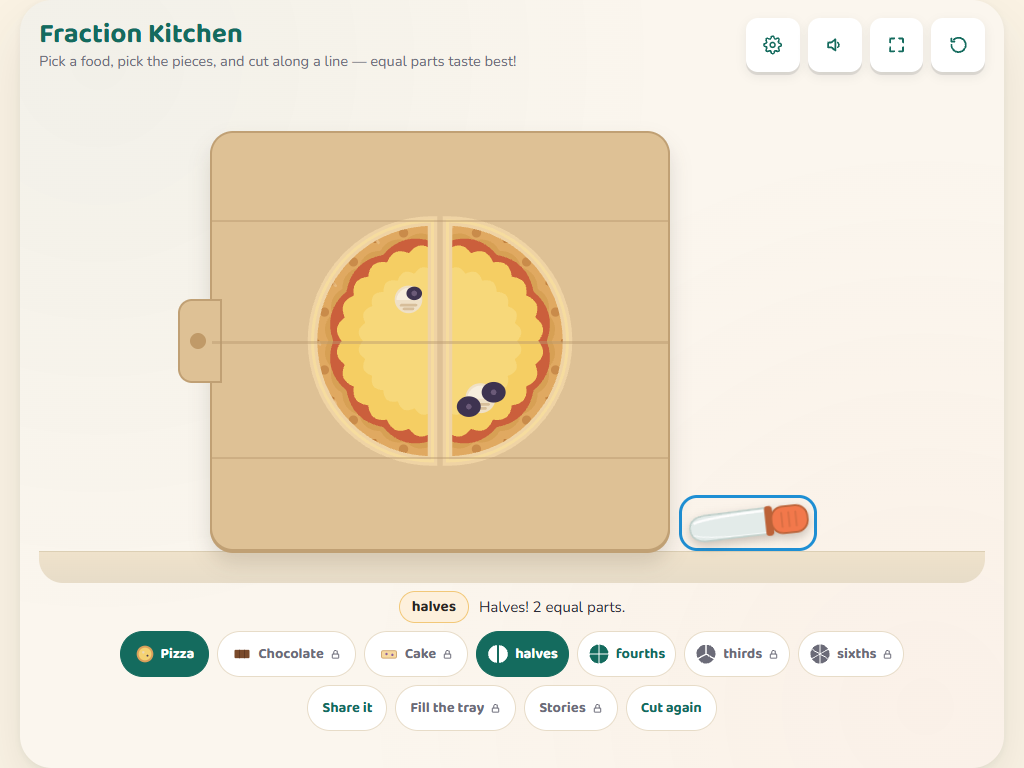
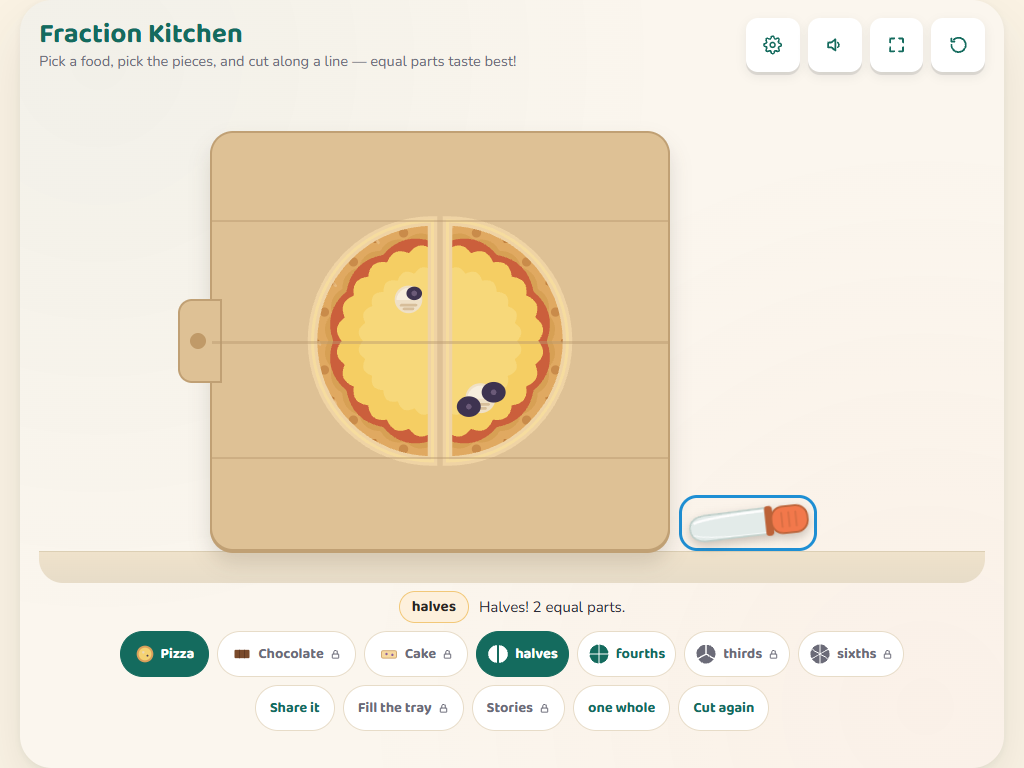
[FEAT][TOOLS] fraction-kitchen: three fourths is now sayable — the one line that capped the whole tool at unit fractions
Wave 6. Two curriculum clauses that were required verbatim and absent,
both delivered with ZERO new strings in any of the eleven locales.

⭐ THE FAIR SHARE, NOT ONE SLICE. `if (plate.querySelector('svg')) return;`
capped this tool at UNIT fractions. No child could ever be given THREE
FOURTHS — 3.NF.A.1's second clause, "a/b as a parts of size 1/b", which
is the pivot idea of grade 3. It also made every leftover unresolvable:
six pieces among three friends HAD to leave three over, when the
mathematically correct answer is two sixths each. A plate now takes
floor(pieces/friends), slices shrink as the share grows so four still
read as four, and _checkShare waits for everyone's SHARE rather than
everyone's piece.

⭐ AND IT NEEDS NO NEW COPY, because FRAC already had the right form.
`c` is defined as the form that FOLLOWS A NUMERAL — that is what it was
authored for — so "2 " + frac(n,'c') is correct by construction in all
eleven languages: "2 sixths", "2 Sechstel", "2 kuudesosaa". The share is
now named aloud and in the ribbon as it is served.

⭐ RE-FORMING THE WHOLE, required verbatim by both 1.G.A.3 and 2.G.A.3
("describe the whole as two of, or four of, the shares") and absent
except through one premium tray task. A chip labelled `fracWhole` pulls
the pieces back together and says it: `equivDone` composed with
`fracWhole` renders "4 fourths fill it exactly. 4 fourths make one
whole." — and its German and Finnish are just as good, because both
[…]

Changed region(s): [[0.25, 0.9062, 0.75, 0.9375]]

diff --git a/mini tools/fraction-kitchen.js b/mini tools/fraction-kitchen.js
@@ -292,7 +292,9 @@ var FractionKitchen = {
     this.friends = 2;
     this.committed = [];         /* committed correct-line indices */
     this.sliced = false;
-    this.placed = [];            /* plate idx -> piece idx */
+    this.placed = [];            /* piece indices already served */
+    this.plateOf = [];           /* piece idx -> plate idx */
+    this.whole = false;          /* the pieces pulled back into one */
     this._sel = null;            /* tap-to-select: the piece awaiting a plate */
     this.wobbleSpoken = {};      /* food -> true (≤1 kind line per food) */
     this.equivTask = null;
@@ -1323,6 +1325,7 @@ var FractionKitchen = {
      piece, without one it takes the first piece still on the board */
   _tapPlate: function (plateEl) {
     if (this.mode !== 'share') return;
+    if (this._plateCount(Number(plateEl.dataset.plate)) >= this._share()) return;
     var idx = this._sel;
     if (idx == null) {
       var ps = this.pieces(this.food, this.n);
@@ -1446,18 +1449,47 @@ var FractionKitchen = {
     this._platesEl = row;
     return row;
   },
+  /* ⭐ THE FAIR SHARE, not one slice. A single line — `if
+     (plate.querySelector('svg')) return;` — capped this whole tool at
+     UNIT fractions: no child could ever be given THREE FOURTHS, which is
+     the pivot idea of grade 3 (3.NF.A.1's second clause, "a/b as a parts
+     of size 1/b"). It also made every leftover unresolvable: six pieces
+     among three friends had to leave three over instead of giving each
+     of them two sixths. */
+  _share: function () {
+    var total = this.pieces(this.food, this.n).length;
+    return Math.max(1, Math.floor(total / this.friends));
+  },
+  _plateCount: function (i) {
+    return (this.plateOf || []).filter(function (v) { return v === i; }).length;
+  },
   _dropOnPlate: function (pieceIdx, x, y, targets) {
     var self = this;
     targets = targets || this._targets();
+    this.plateOf = this.plateOf || [];
     for (var k = 0; k < targets.length; k++) {
       if (this._inTarget(targets[k], x, y)) {
         var plate = targets[k].el, i = Number(plate.dataset.plate);
-        if (plate.querySelector('svg')) return;   /* one slice per plate — extra slides back (render no-op) */
+        if (this._plateCount(i) >= this._share()) return;   /* this plate has its share */
         var p = this.pieces(this.food, this.n)[pieceIdx];
-        plate.innerHTML = '<svg viewBox="' + this._bboxAttr(this.food, this.n, pieceIdx) + '" class="frk-plateslice">' +
-          '<clipPath id="frkpl' + i + '"><path d="' + p.d + '"/></clipPath>' +
-          '<g clip-path="url(#frkpl' + i + ')">' + this._body(this.food) + '</g></svg>';
+        var kOn = this._plateCount(i) + 1;
+        /* slices shrink as the share grows, so four still read as four */
+        var sz = Math.max(30, Math.min(68, 68 / Math.sqrt(kOn))).toFixed(0);
+        plate.insertAdjacentHTML('beforeend',
+          '<svg viewBox="' + this._bboxAttr(this.food, this.n, pieceIdx) + '" class="frk-plateslice">' +
+          '<clipPath id="frkpl' + i + '_' + pieceIdx + '"><path d="' + p.d + '"/></clipPath>' +
+          '<g clip-path="url(#frkpl' + i + '_' + pieceIdx + ')">' + this._body(this.food) + '</g></svg>');
+        [].forEach.call(plate.querySelectorAll('.frk-plateslice'), function (s) {
+          s.style.width = sz + '%'; s.style.height = sz + '%';
+        });
         this.placed.push(pieceIdx);
+        this.plateOf[pieceIdx] = i;
+        /* ⭐ NAME THE SHARE. FRAC's `c` form is defined as the form that
+           follows a numeral, in every locale — so "2 " + c is correct
+           by construction and needs no new string in any language. */
+        this._speak(kOn > 1
+          ? kOn + ' ' + this.frac(this.n, 'c')
+          : this.fmt('pieceName', { fs: this.frac(this.n, 's') }));
         if (this._sel === pieceIdx) { this._sel = null; this._paintSel(); }
         var pieceEl = this._hitsEl.querySelector('.frk-piecebtn[data-piece="' + pieceIdx + '"]');
         if (pieceEl) pieceEl.classList.add('onplate');
@@ -1475,8 +1507,10 @@ var FractionKitchen = {
     var total = this.pieces(this.food, this.n).length;
     var filled = this.placed.length;
     var self = this;
-    if (filled === Math.min(this.friends, total)) {
-      var leftover = total - this.friends;
+    /* everyone has their SHARE, not merely one piece each */
+    var served = Math.min(this.friends * this._share(), total);
+    if (filled === served) {
+      var leftover = total - served;
       setTimeout(function () {
         if (leftover > 0) {
           /* ⚠ shareLeftover is the ONE share string with no placeholders:
@@ -1489,7 +1523,7 @@ var FractionKitchen = {
              observes-then-waits. Parameterising it properly needs counted
              forms in eleven languages — a locale pass, not a code fix. */
           if (leftover === 1) self._speak(self.api.t('shareLeftover'));
-        } else if (leftover < 0) {
+        } else if (self.friends > total) {
           self._speak(self.fmt('shareEmpty', { p: total, f: self.friends }));
         } else {
           (self._platesEl.querySelectorAll('.frk-face') || []).forEach(function (f) { f.classList.add('blink'); });
@@ -1725,7 +1759,7 @@ var FractionKitchen = {
         chip.addEventListener('click', function () {
           if (locked) { self._gateInline(dock, 'gateMenu'); return; }
           self.friends = f;
-          self.placed = [];
+          self.placed = []; self.plateOf = [];
           self.render();
         });
         r2.appendChild(chip);
@@ -1759,6 +1793,23 @@ var FractionKitchen = {
       self._speak(self._loc(story.story));
     });
     r2.appendChild(st);
+    if (this.sliced && this.mode !== 'equiv') {
+      var whole = api.el('button', 'frk-chip' + (this.whole ? ' active' : ''));
+      whole.type = 'button';
+      whole.textContent = api.t('fracWhole');
+      whole.addEventListener('click', function () {
+        self.whole = !self.whole;
+        self._foodBoxEl.classList.toggle('exploded', !self.whole);
+        whole.classList.toggle('active', self.whole);
+        if (self.whole) {
+          self._sfxFit();
+          self._speak(self.fmt('equivDone', {
+            a: self.n, small: self.frac(self.n, 'c'), big: api.t('fracWhole')
+          }));
+        }
+      });
+      r2.appendChild(whole);
+    }
     var again = api.el('button', 'frk-chip');
     again.type = 'button';
     again.textContent = api.t(this.sliced ? 'cutAgain' : 'startAgain');
@@ -1778,6 +1829,8 @@ var FractionKitchen = {
     this.committed = [];
     this.sliced = false;
     this.placed = [];
+    this.plateOf = [];
+    this.whole = false;
     this._sel = null;
     if (!keepMode && this.mode === 'equiv') this.mode = 'cut';
     this.render();
@@ -1991,10 +2044,12 @@ var FractionKitchen = {
   + '.frk-plate:focus-visible,.frk-supplypiece:focus-visible,.frk-tray.fill:focus-visible{'
   +   'outline:3px solid var(--lcs-focus,#146B5E);outline-offset:3px;}'
   + '.frk-plate{width:108px;height:108px;border-radius:50%;background:#FFFFFF;'
-  +   'border:1.5px solid #C9D8D3;box-shadow:var(--lcs-shadow-sm);display:grid;place-items:center;position:relative;}'
+  +   'border:1.5px solid #C9D8D3;box-shadow:var(--lcs-shadow-sm);position:relative;'
+  +   'display:flex;flex-wrap:wrap;align-items:center;justify-content:center;gap:1px;padding:9%;}'
   + '.frk-plate::before{content:"";position:absolute;inset:12%;border-radius:50%;border:2px solid #E2F0EC;}'
   + '.frk-plate.hot{border-color:#F2784B;transform:scale(1.03);transition:all .14s var(--lcs-ease);}'
-  + '.frk-plateslice{width:64%;height:64%;}'
+  + '.frk-plateslice{width:64%;height:64%;flex:0 0 auto;'
+  +   'filter:drop-shadow(0 2px 2px rgba(58,46,34,.20));}'
 
   /* equivalence trays */
   + '.frk-trays{flex-shrink:0;display:flex;justify-content:center;align-items:center;gap:24px;'

diff --git a/scripts/local-test-fraction-kitchen.js b/scripts/local-test-fraction-kitchen.js
@@ -461,6 +461,75 @@ function serve() {
     await page.close(); await p2.close();
   }
 
+  /* ================= C2: the FAIR SHARE, not one slice ==================
+     One line used to cap this tool at unit fractions — a plate could hold
+     exactly one piece, so no child could ever be given three fourths, and
+     six pieces among three friends had to leave three over instead of
+     giving each of them two sixths. */
+  console.log('C2. non-unit shares');
+  {
+    const page = await newPage({ premium: true });
+    await page.goto(BASE);
+    await ready(page);
+    await spy(page);
+    await page.evaluate(() => {
+      const T = FractionKitchen;
+      T.food = 'pizza'; T.n = 6; T.committed = [0, 1, 2]; T.sliced = true;
+      T.mode = 'share'; T.friends = 3; T.placed = []; T.plateOf = [];
+      T.render();
+    });
+    await sleep(300);
+    const share = await page.evaluate(() => FractionKitchen._share());
+    ok('C2 six pieces among three friends is a share of TWO', share === 2, `share=${share}`);
+    await page.evaluate(() => { window.__spoken = []; });
+    for (const i of [0, 1]) await dragCenter(page, `.frk-piecebtn[data-piece="${i}"]`, '.frk-plate[data-plate="0"]');
+    const st = await page.evaluate(() => ({
+      onPlate0: document.querySelectorAll('.frk-plate[data-plate="0"] .frk-plateslice').length,
+      placed: FractionKitchen.placed.length,
+      spoken: window.__spoken.join(' | ')
+    }));
+    ok('C2 one plate holds TWO slices', st.onPlate0 === 2 && st.placed === 2, `slices=${st.onPlate0} placed=${st.placed}`);
+    /* the counted form is what follows a numeral in every locale, so this
+       needs no new string in any language */
+    ok('C2 the share is NAMED as a non-unit fraction', /2\s+sixths/i.test(st.spoken), st.spoken);
+    /* and a third slice on that plate is refused — the share is the share */
+    await dragCenter(page, '.frk-piecebtn[data-piece="2"]', '.frk-plate[data-plate="0"]');
+    const after = await page.evaluate(() => document.querySelectorAll('.frk-plate[data-plate="0"] .frk-plateslice').length);
+    ok('C2 a plate never takes more than its share', after === 2, `slices=${after}`);
+    ok('C2 no js errors', page._errs.length === 0, page._errs[0]);
+    await page.close();
+  }
+  /* ============ C3: re-forming the whole (1.G.A.3 / 2.G.A.3) =========== */
+  console.log('C3. put it back together');
+  {
+    const page = await newPage({});
+    await page.goto(BASE);
+    await ready(page);
+    await spy(page);
+    await page.evaluate(() => {
+      const T = FractionKitchen;
+      T.food = 'pizza'; T.n = 4; T.committed = [0, 1]; T.sliced = true; T.render();
+      T._foodBoxEl.classList.add('exploded');
+    });
+    await sleep(250);
+    const chip = await page.evaluate(() => {
+      const c = [...document.querySelectorAll('.frk-chip')].filter((b) => /whole/i.test(b.textContent));
+      if (!c.length) return null;
+      c[0].click();
+      return true;
+    });
+    ok('C3 non-vacuity: a "one whole" chip exists once the food is cut', chip === true);
+    await sleep(300);
+    const st = await page.evaluate(() => ({
+      exploded: document.querySelector('.frk-foodbox').classList.contains('exploded'),
+      spoken: window.__spoken.join(' | ')
+    }));
+    ok('C3 the pieces come back together', !st.exploded);
+    ok('C3 it says four fourths make one whole', /fourths.*one whole/i.test(st.spoken), st.spoken);
+    ok('C3 no js errors', page._errs.length === 0, page._errs[0]);
+    await page.close();
+  }
+
   /* ============================ D: equivalence tray ===================== */
   console.log('D. equivalence tray (premium)');
   {

diff --git a/mini tools/fraction-kitchen.html b/mini tools/fraction-kitchen.html
@@ -12,7 +12,7 @@
 
   <!-- Shell first, then this tool. -->
   <script src="/mini-tools/lcs-shell.js?v=5"></script>
-  <script src="/mini-tools/fraction-kitchen.js?v=4"></script>
+  <script src="/mini-tools/fraction-kitchen.js?v=5"></script>
   <script>
     // URL params the shell understands:
     //   ?lang=sv  ?lang=fi  (any of: en de fr it es pt nl sv da no fi)
